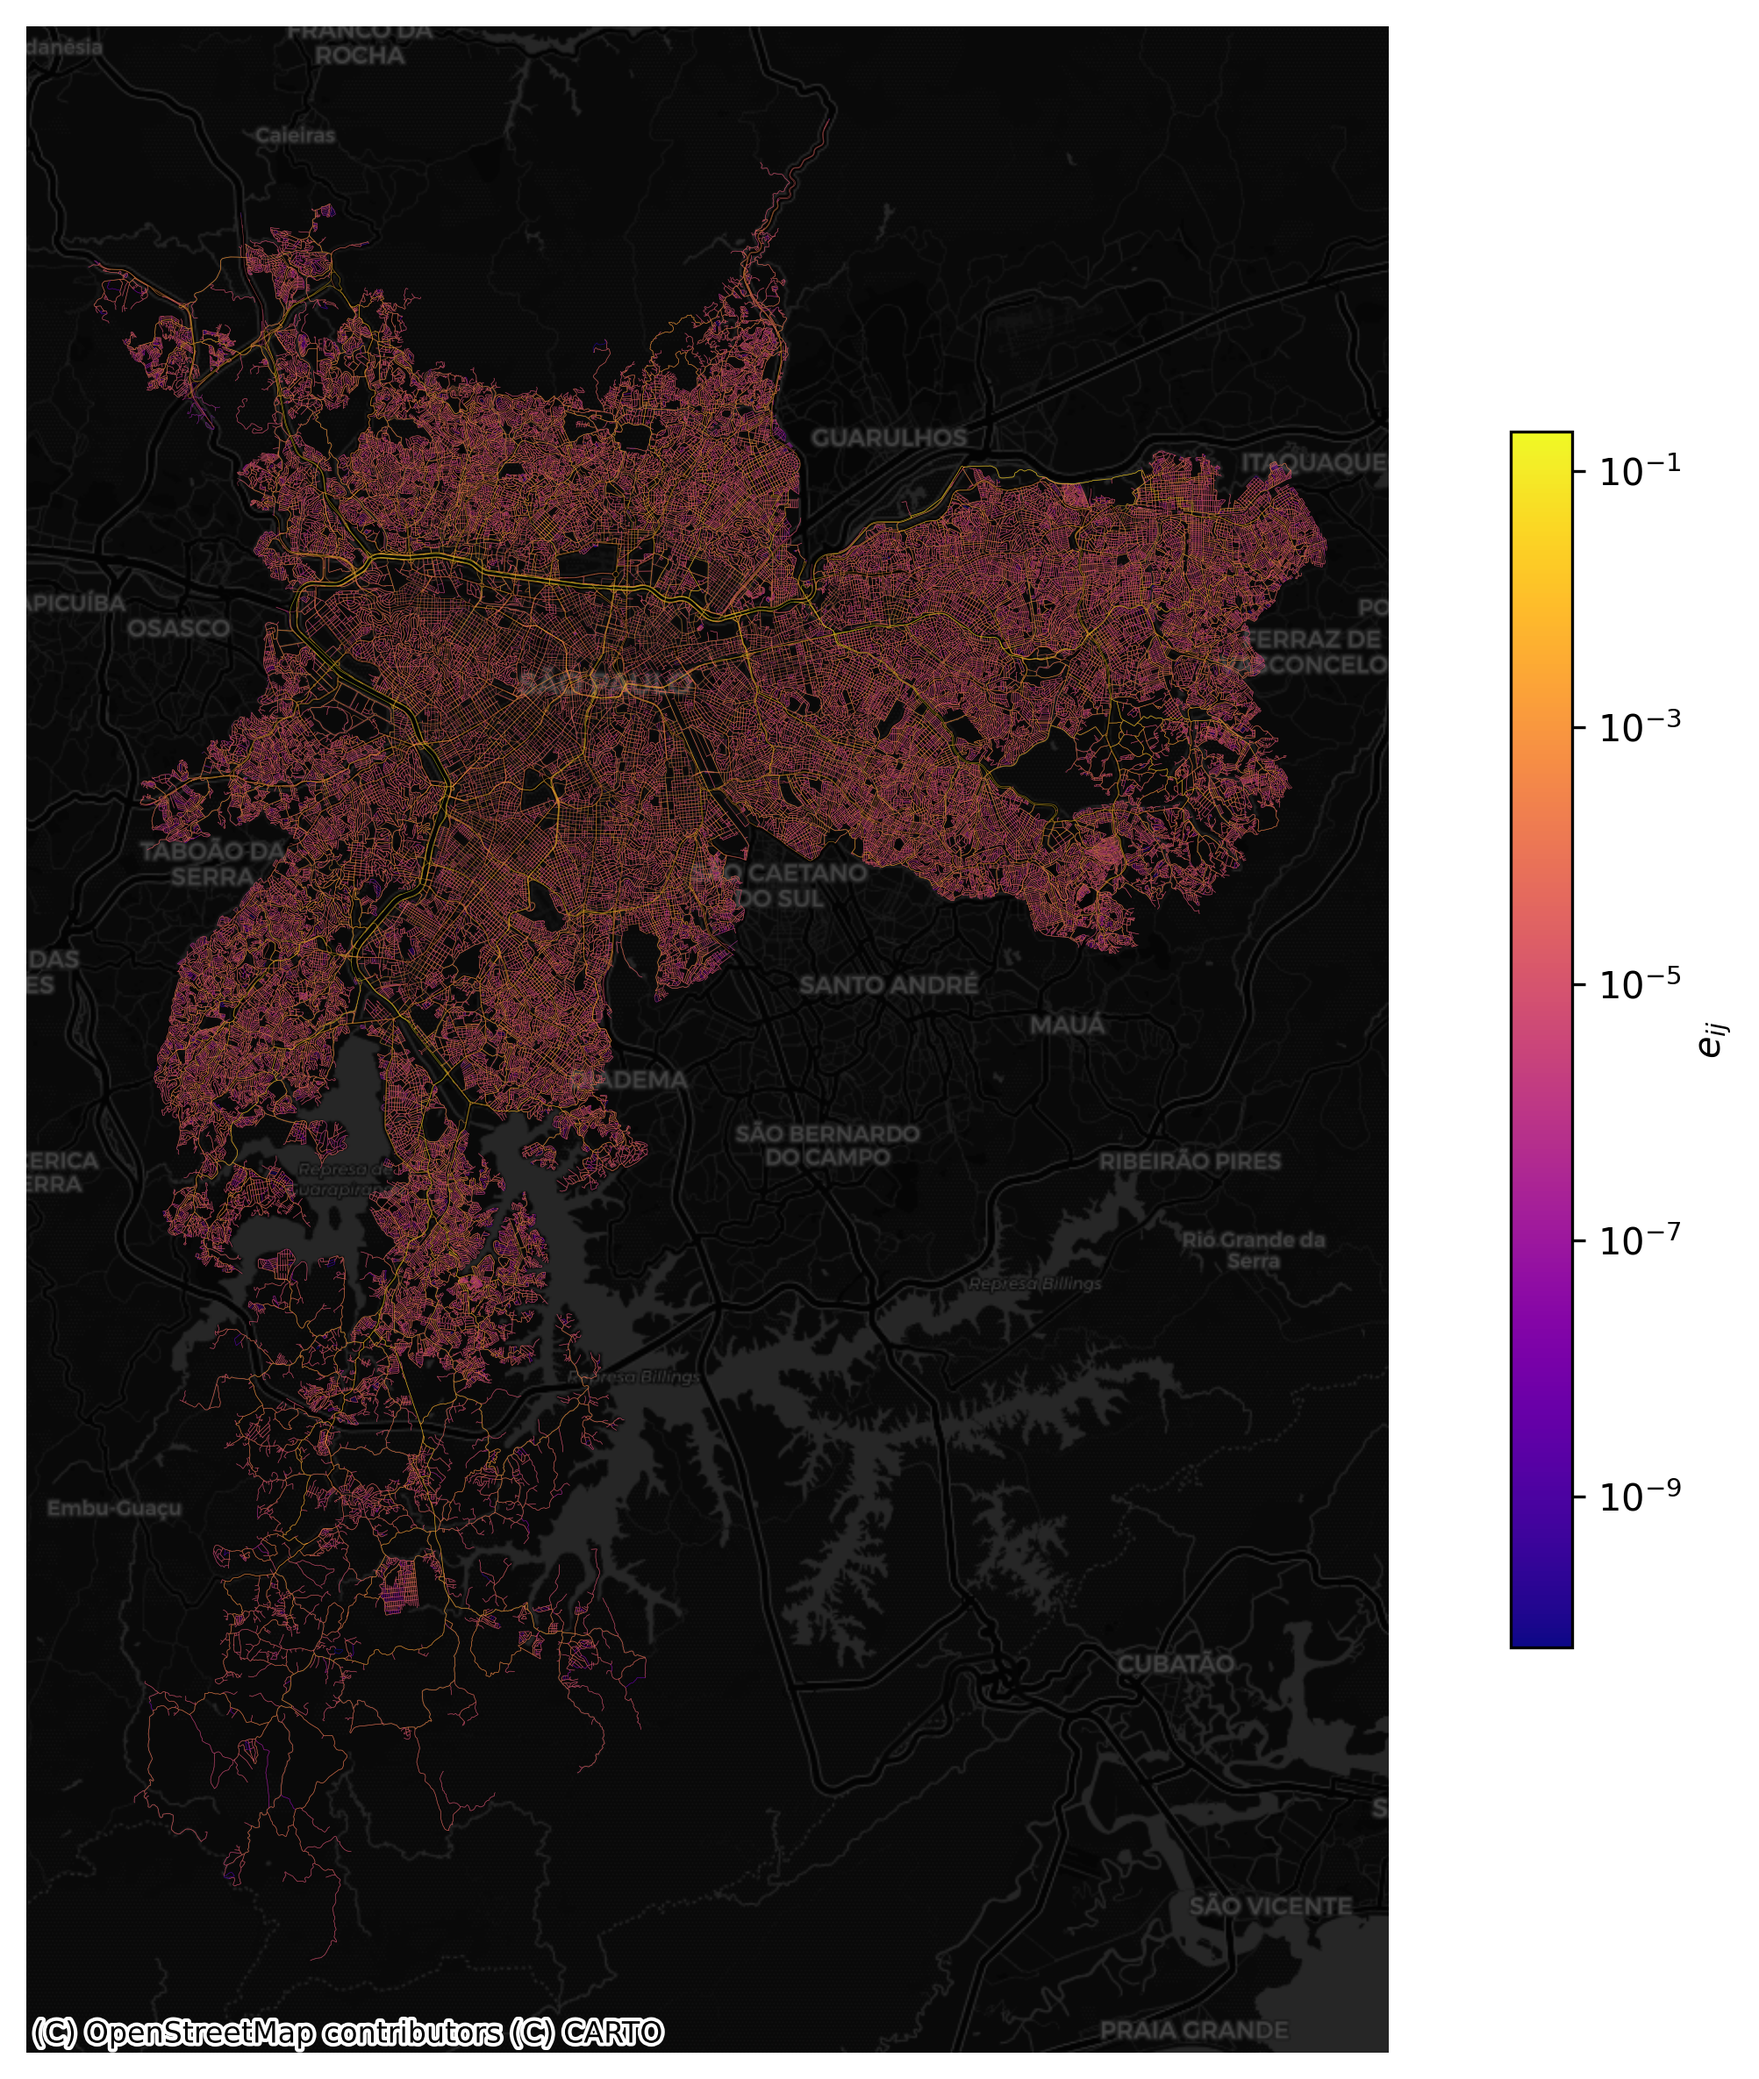
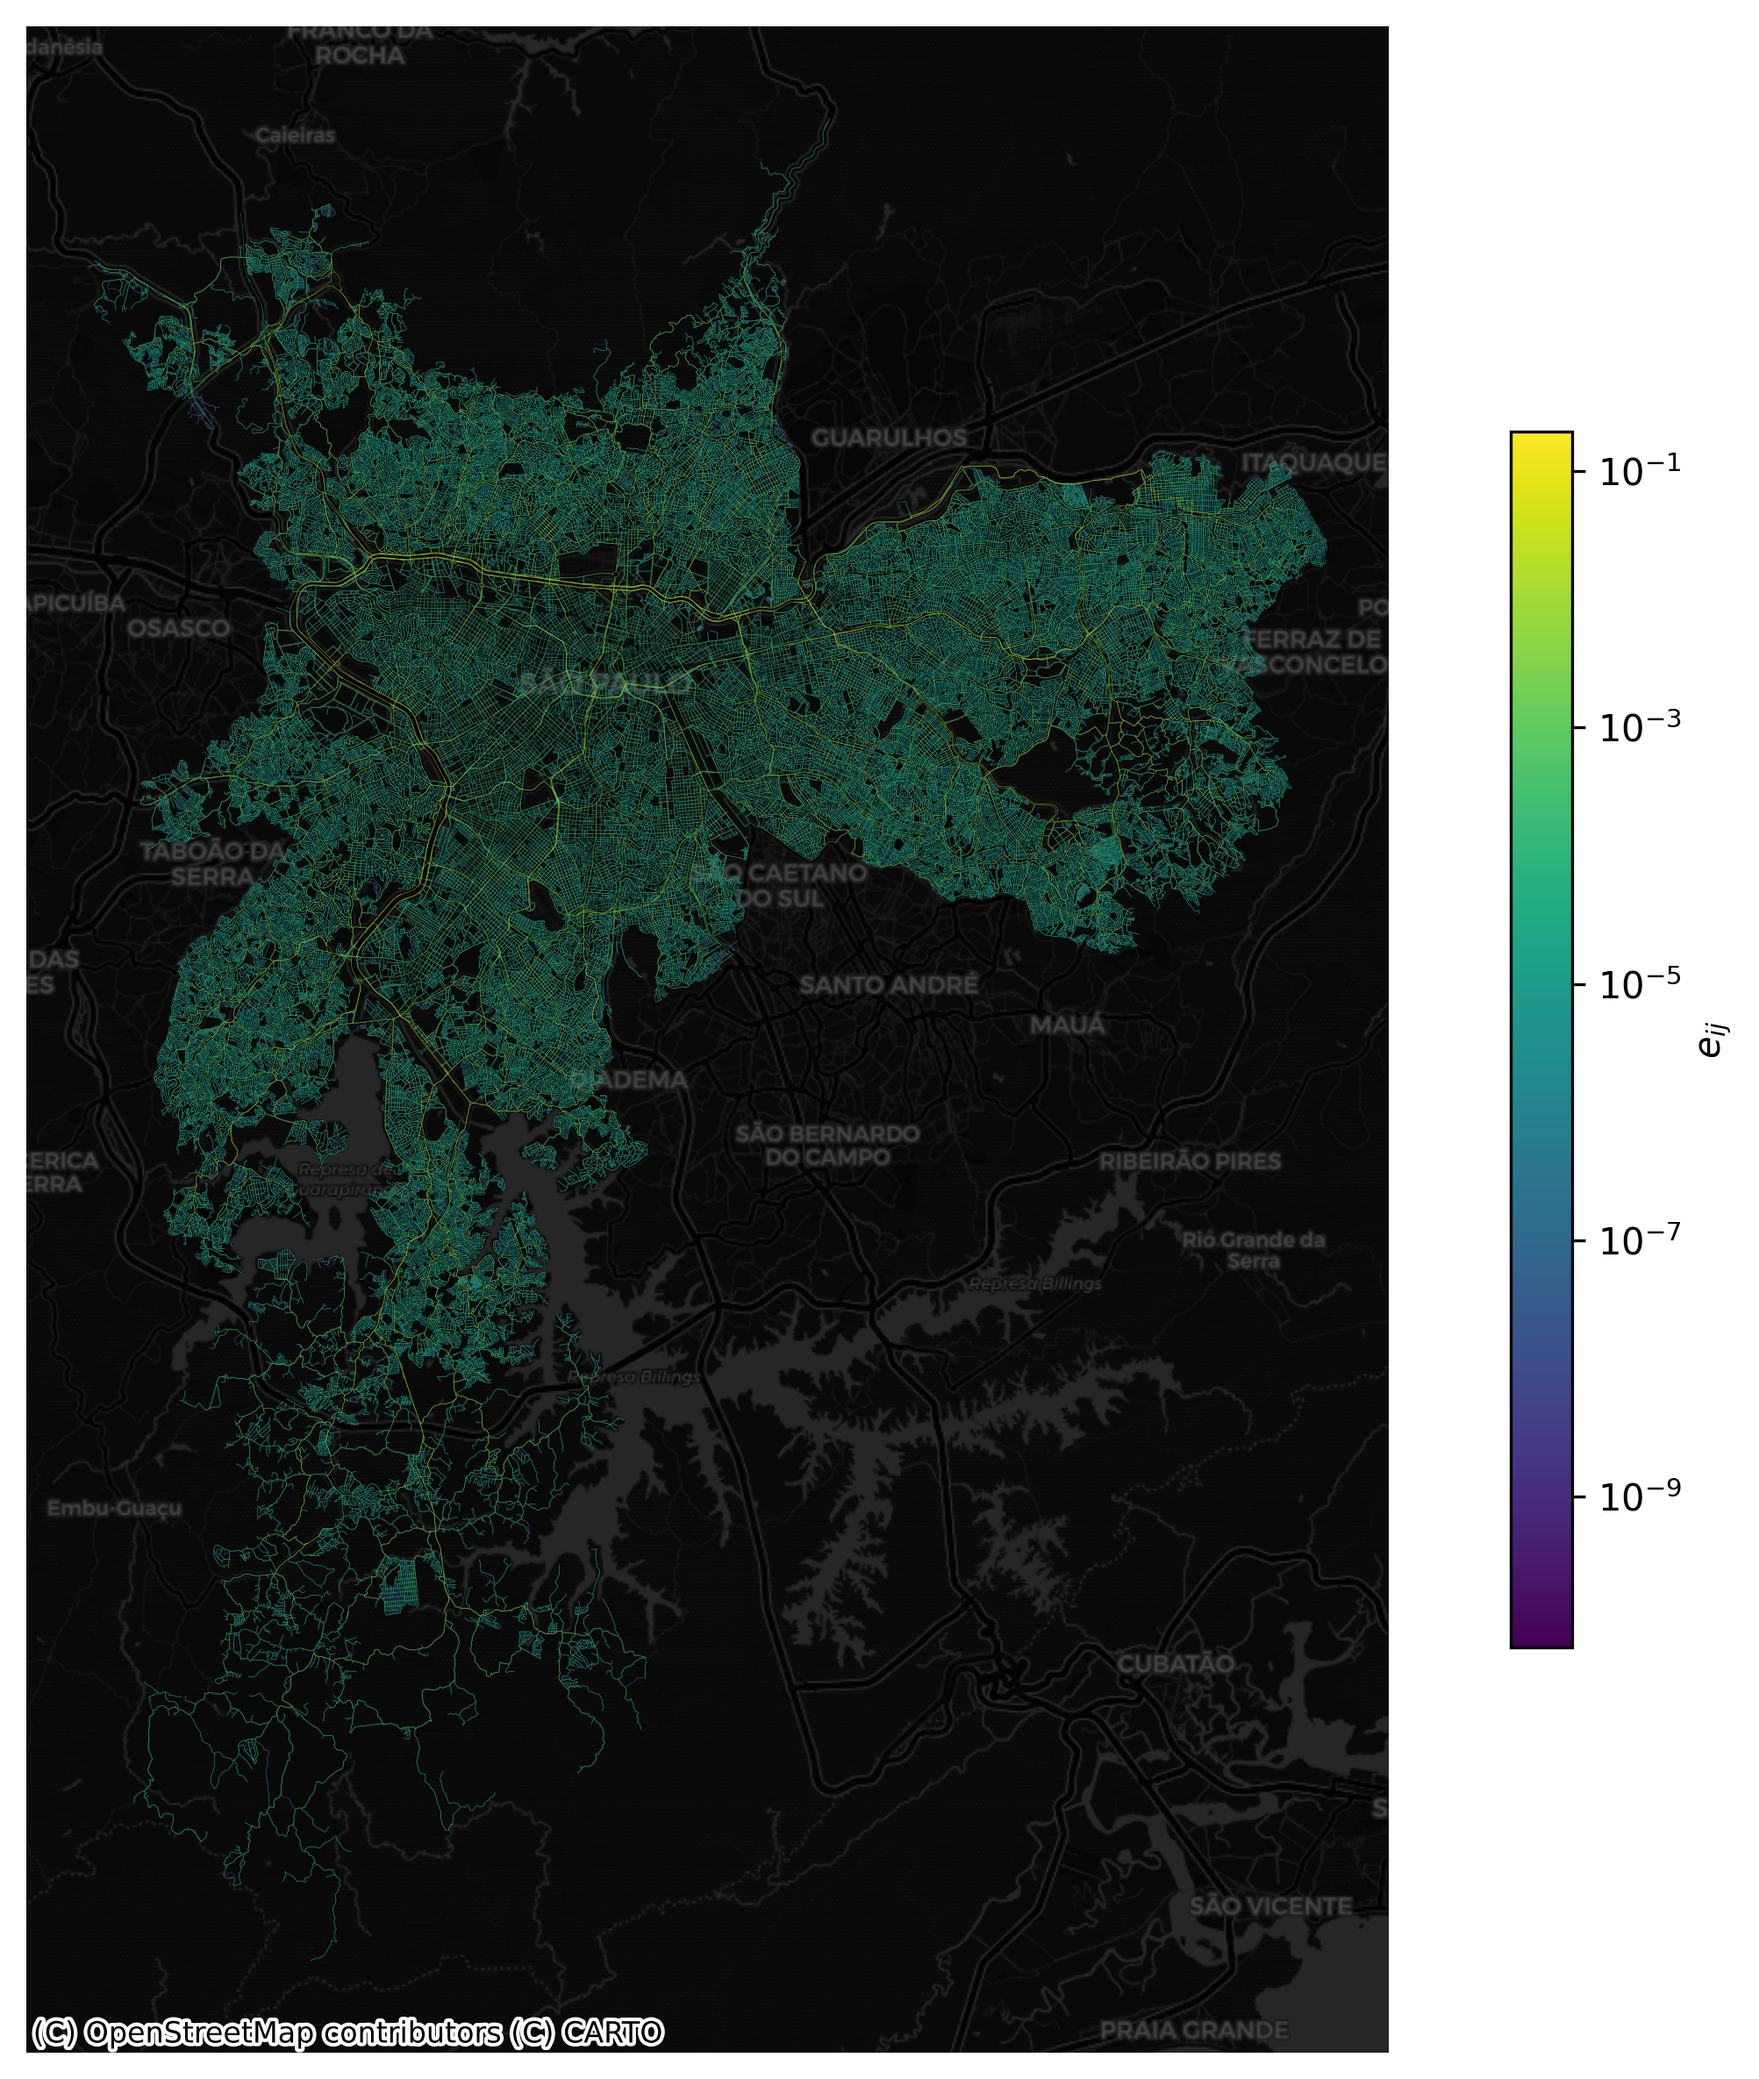
update plots

Changed region(s): [[0.0618, 0.0937, 0.7731, 0.8118], [0.8349, 0.2186, 0.8968, 0.8118]]

diff --git a/paper/artigo.tex b/paper/artigo.tex
@@ -162,7 +162,7 @@ Average values of degree ($\langle k \rangle$), clustering coefficient ($\langle
 % The analysis and most computational methods were performed using the Python programming language, version 3.12.12. The following packages were mainly used: \verb|osmnx| \cite{boeingModelingAnalyzingUrban2025}, \verb|networkx| \cite{hagbergExploringNetworkStructure2008}, and \verb|geopandas| \cite{jorisvandenbosscheGeopandasGeopandasV1112025}. The code was packaged and is available in the following repository: \textcite{santosTamaproject2025}.
 
 \section{Results}
-% <l_i> = 114.3566
+% <l_i> = 132.43
 
 %The loaded road network graph has 21,045 nodes and 48,769 edges (31,615 undirected). Table \ref{tab:network-comparison} compares the network parameters with an equivalent random network $G(N, p)$. The average clustering coefficient $\langle c \rangle$ of the real network is approximately 420 times higher than the random equivalent, indicating a significantly clustered structure. The average shortest path length $\langle l \rangle$ of the real network is approximately 7.4 times higher than the random network.
 

diff --git a/src/plot.py b/src/plot.py
@@ -102,6 +102,7 @@ def plot_edge_map(
     figsize: tuple = (12, 10),
     linewidth: float = 0.15,
     log_scale: bool = False,
+    cmap: str = "plasma",
 ):
     """Create a line map of edges colored by a parameter.
 
@@ -113,6 +114,7 @@ def plot_edge_map(
         figsize: Figure size in inches.
         linewidth: Width of edge lines.
         log_scale: Use logarithmic color normalization.
+        cmap: Matplotlib colormap name.
     """
     fig, ax = plt.subplots(1, 1, figsize=figsize)
 
@@ -125,7 +127,7 @@ def plot_edge_map(
     gdf.plot(
         column=column,
         ax=ax,
-        cmap="plasma",
+        cmap=cmap,
         linewidth=linewidth,
         alpha=0.6,
         legend=True,
@@ -232,7 +234,7 @@ def main():
 
     edges = load_edges()
     plot_edge_map(
-        edges, "e_ij", r"$e_{ij}$", PLOT_DIR / "edges_e_ij.png", log_scale=True
+        edges, "e_ij", r"$e_{ij}$", PLOT_DIR / "edges_e_ij.png", log_scale=True, cmap="viridis"
     )
 
     plot_degree_distribution(nodes, PLOT_DIR / "degree_distribution.png")
